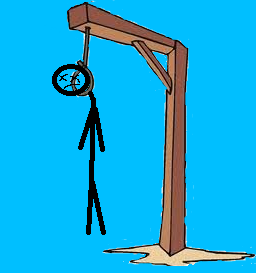
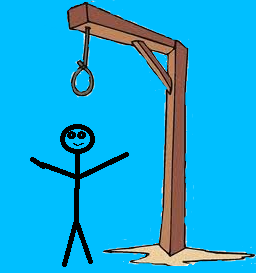
Add image buttons in newPlayerWindow

Changed region(s): [[0.125, 0.2344, 0.5, 0.9963]]

diff --git a/MVP-tema2-Hangman/MVP-tema2-Hangman/NewUserWindow.xaml b/MVP-tema2-Hangman/MVP-tema2-Hangman/NewUserWindow.xaml
@@ -7,21 +7,32 @@
         mc:Ignorable="d"
         Background="DeepSkyBlue"
         Title="New user" 
-        Height="150" 
-        Width="200"
+        Height="300" 
+        Width="300"
         Icon="Icon.png">
     <Grid>
         <Grid.RowDefinitions>
             <RowDefinition/>
             <RowDefinition/>
             <RowDefinition/>
+            <RowDefinition/>
         </Grid.RowDefinitions>
+
+        <Grid.ColumnDefinitions>
+            <ColumnDefinition/>
+            <ColumnDefinition/>
+            <ColumnDefinition/>
+            <ColumnDefinition/>
+            <ColumnDefinition/>
+        </Grid.ColumnDefinitions>
 
         <TextBox Name="txtName" 
                  Grid.Row="0"
+                 Grid.Column="0"
+                 Grid.ColumnSpan="5"
                  HorizontalContentAlignment="Center"
                  VerticalContentAlignment="Center"
-                 Margin="10,10,10,5"
+                 Margin="20,20,20,30"
                  FontStyle="Italic" 
                  FontFamily="Arial"
                  Foreground="Gray"
@@ -31,17 +42,131 @@
                  TextChanged="txtName_TextChanged">Type your name...
         </TextBox>
 
-        <Button>Choose a </Button>
+        <Label Name="lblChoose"
+               Grid.Row="0"
+               Grid.Column="0"
+               Grid.ColumnSpan="5"
+               Foreground="SaddleBrown"
+               FontFamily="Arial"
+               Margin="15,40,10,0">Choose a profile picture:
+        </Label>
+
+        <Button Name="btnPicture1"
+                Grid.Row="1"
+                Grid.Column="0"
+                Margin="5,10,5,10"
+                BorderThickness="0"
+                Background="Transparent"
+                Click="btnPicture_Click">
+            <Image Name="img1"
+                   Source="profileImg.png"/>
+        </Button>
+        
+        <Button Name="btnPicture2"
+                Grid.Row="1"
+                Grid.Column="1"
+                Margin="5,10,5,10"
+                BorderThickness="0"
+                Background="Transparent"
+                Click="btnPicture_Click">
+            <Image Name="img2"
+                   Source="profileImg2.png"/>
+        </Button>
+        
+        <Button Name="btnPicture3"
+                Grid.Row="1"
+                Grid.Column="2"
+                Margin="5,10,5,10"
+                BorderThickness="0"
+                Background="Transparent">
+            <Image Name="img3"
+                   Source="profileImg3.png"/>
+        </Button>
+        
+        <Button Name="btnPicture4"
+                Grid.Row="1"
+                Grid.Column="3"
+                Margin="5,10,5,10"
+                BorderThickness="0"
+                Background="Transparent">
+            <Image Name="img4"
+                   Source="profileImg4.png"/>
+        </Button>
+        
+        <Button Name="btnPicture5"
+                Grid.Row="1"
+                Grid.Column="4"
+                Margin="5,10,5,10"
+                BorderThickness="0"
+                Background="Transparent">
+            <Image Name="img5"
+                   Source="profileImg5.png"/>
+        </Button>
+        
+        <Button Name="btnPicture6"
+                Grid.Row="2"
+                Grid.Column="0"
+                Margin="5,10,5,10"
+                BorderThickness="0"
+                Background="Transparent">
+            <Image Name="img6"
+                   Source="profileImg6.png"/>
+        </Button>
+        
+        <Button Name="btnPicture7"
+                Grid.Row="2"
+                Grid.Column="1"
+                Margin="5,10,5,10"
+                BorderThickness="0"
+                Background="Transparent">
+            <Image Name="img7"
+                   Source="profileImg7.png"/>
+        </Button>
+        
+        <Button Name="btnPicture8"
+                Grid.Row="2"
+                Grid.Column="2"
+                Margin="5,10,5,10"
+                BorderThickness="0"
+                Background="Transparent">
+            <Image Name="img8"
+                   Source="profileImg8.png"/>
+        </Button>
+        
+        <Button Name="btnPicture9"
+                Grid.Row="2"
+                Grid.Column="3"
+                Margin="5,10,5,10"
+                BorderThickness="0"
+                Background="Transparent">
+            <Image Name="img9"
+                   Source="profileImg9.png"/>
+        </Button>
+        
+        <Button Name="btnPicture10"
+                Grid.Row="2"
+                Grid.Column="4"
+                Margin="5,10,5,10"
+                BorderThickness="0"
+                Background="Transparent">
+            <Image Name="img10"
+                   Source="profileImg10.png"/>
+        </Button>
         
         <Button Name="btnAdd" 
-                HorizontalContentAlignment="Center"  
-                Grid.Row="2"
-                Margin="25,5,25,5"
+                HorizontalContentAlignment="Center" 
+                VerticalContentAlignment="Center"
+                Grid.Row="4"
+                Grid.Column="1"
+                Grid.ColumnSpan="3"
+                Margin="30,20,30,20"
                 FontFamily="Arial Black"
                 Foreground="SaddleBrown"
                 Background="BlanchedAlmond"
                 BorderThickness="0"
+                IsEnabled="False"
                 Click="btnAdd_Click" >Add
         </Button>
+
     </Grid>
 </Window>

diff --git a/MVP-tema2-Hangman/MVP-tema2-Hangman/GameWindow.xaml b/MVP-tema2-Hangman/MVP-tema2-Hangman/GameWindow.xaml
@@ -144,7 +144,7 @@
                    Grid.RowSpan="3"
                    Grid.Column="0"
                    Grid.ColumnSpan="5"
-                   Source="ImgStartProgress.png"/>
+                   Source="ImgStart.png"/>
 
         <Button Name="btnQ" 
                 FontFamily="Arial Black"

diff --git a/MVP-tema2-Hangman/MVP-tema2-Hangman/Utils.cs b/MVP-tema2-Hangman/MVP-tema2-Hangman/Utils.cs
@@ -10,13 +10,12 @@ using System.Windows;
 using System.Windows.Controls;
 using System.Drawing;
 using System.Windows.Media.Imaging;
+using System.Windows.Media;
 
 namespace MVP_tema2_Hangman
 {
     class Utils
     {
-        private static List<Image> profilePictures;
-
         public static void getNames(ref ListBox listBoxNames)
         {
             List<string> names = new List<string>();
@@ -38,7 +37,7 @@ namespace MVP_tema2_Hangman
             listBoxNames.ItemsSource = names;
         }
 
-        public static void addNewPlayer(TextBox txtName)
+        public static void addNewPlayer(TextBox txtName, string imageString)
         {
             if (txtName.Text == "" || txtName.Text == "Type your name...")
                 MessageBox.Show("Please insert your name!", "Error!", MessageBoxButton.OK);
@@ -51,12 +50,11 @@ namespace MVP_tema2_Hangman
                 SqlCommand command = new SqlCommand("InsertProcedure", connection);
                 command.CommandType = CommandType.StoredProcedure;
                 command.Parameters.AddWithValue("@name", txtName.Text);
+                command.Parameters.AddWithValue("@image_string", imageString);
                 command.ExecuteNonQuery();
                 connection.Close();
                 MessageBox.Show("Name added!", "", MessageBoxButton.OK);
             }
         }
-
-        
     }
 }

diff --git a/MVP-tema2-Hangman/MVP-tema2-Hangman/NewUserWindow.xaml.cs b/MVP-tema2-Hangman/MVP-tema2-Hangman/NewUserWindow.xaml.cs
@@ -2,6 +2,7 @@
 using System.Collections.Generic;
 using System.Data;
 using System.Data.SqlClient;
+using System.IO;
 using System.Linq;
 using System.Text;
 using System.Threading.Tasks;
@@ -24,6 +25,8 @@ namespace MVP_tema2_Hangman
             InitializeComponent();
         }
 
+        string image = "";
+
         private void txtName_TextChanged(object sender, TextChangedEventArgs e)
         {
             txtName.Foreground = new SolidColorBrush(Colors.SaddleBrown);
@@ -32,13 +35,21 @@ namespace MVP_tema2_Hangman
 
         private void btnAdd_Click(object sender, RoutedEventArgs e)
         {
-            Utils.addNewPlayer(txtName);
+            Utils.addNewPlayer(txtName, image);
             this.Close();
         }
 
         private void txtName_PreviewMouseDown(object sender, MouseButtonEventArgs e)
         {
             txtName.Text = "";
+        }
+
+        private void btnPicture_Click(object sender, RoutedEventArgs e)
+        {
+            btnAdd.IsEnabled = true;
+            Button button = sender as Button;
+            Image temp = button.Content as Image;
+            image = temp.Source.ToString();
         }
     }
 }
